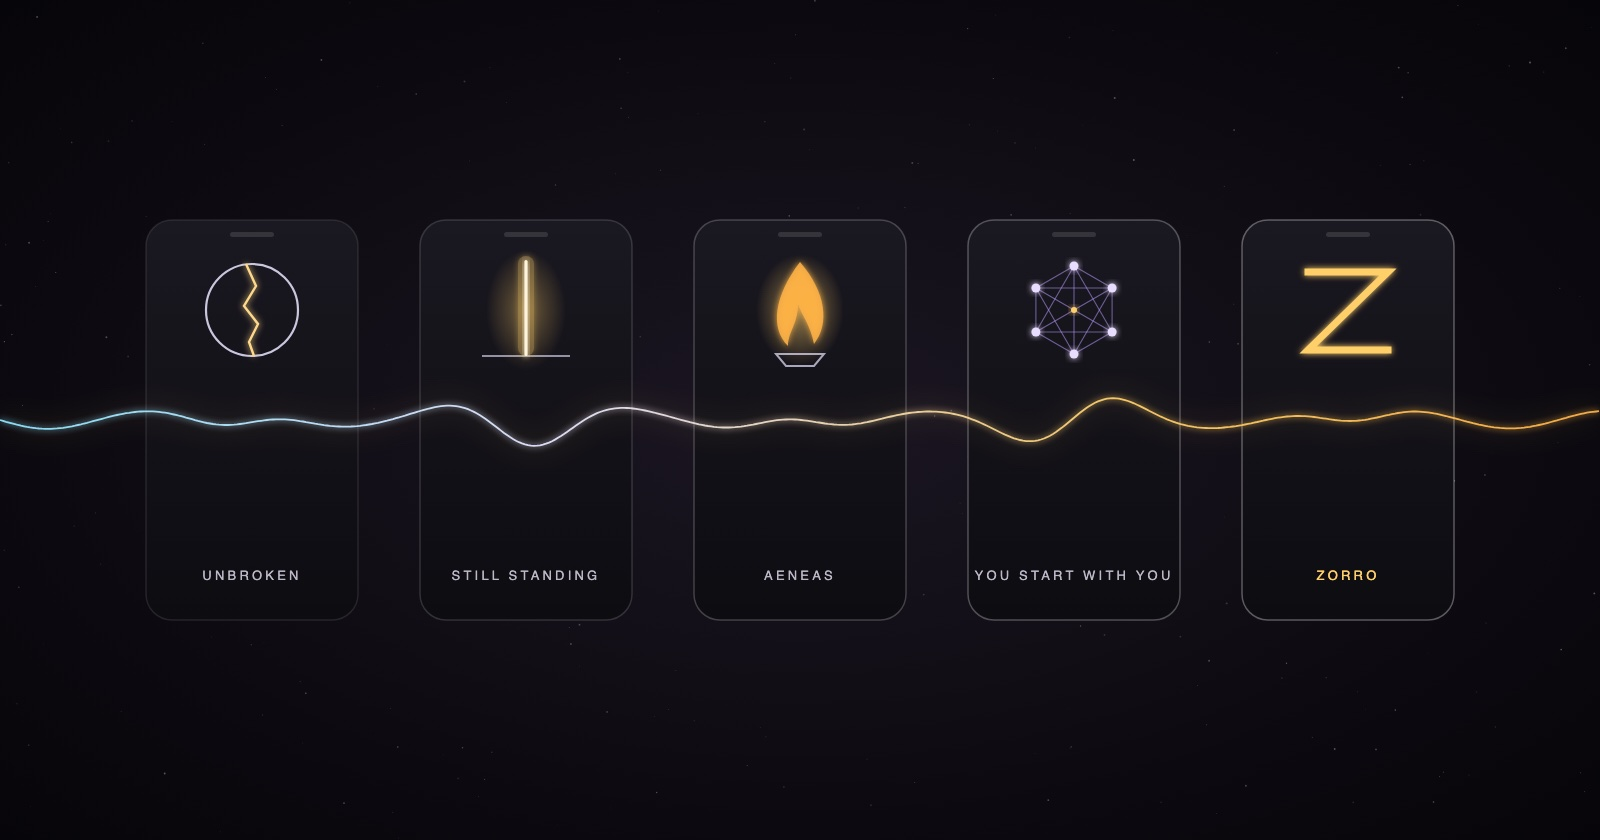
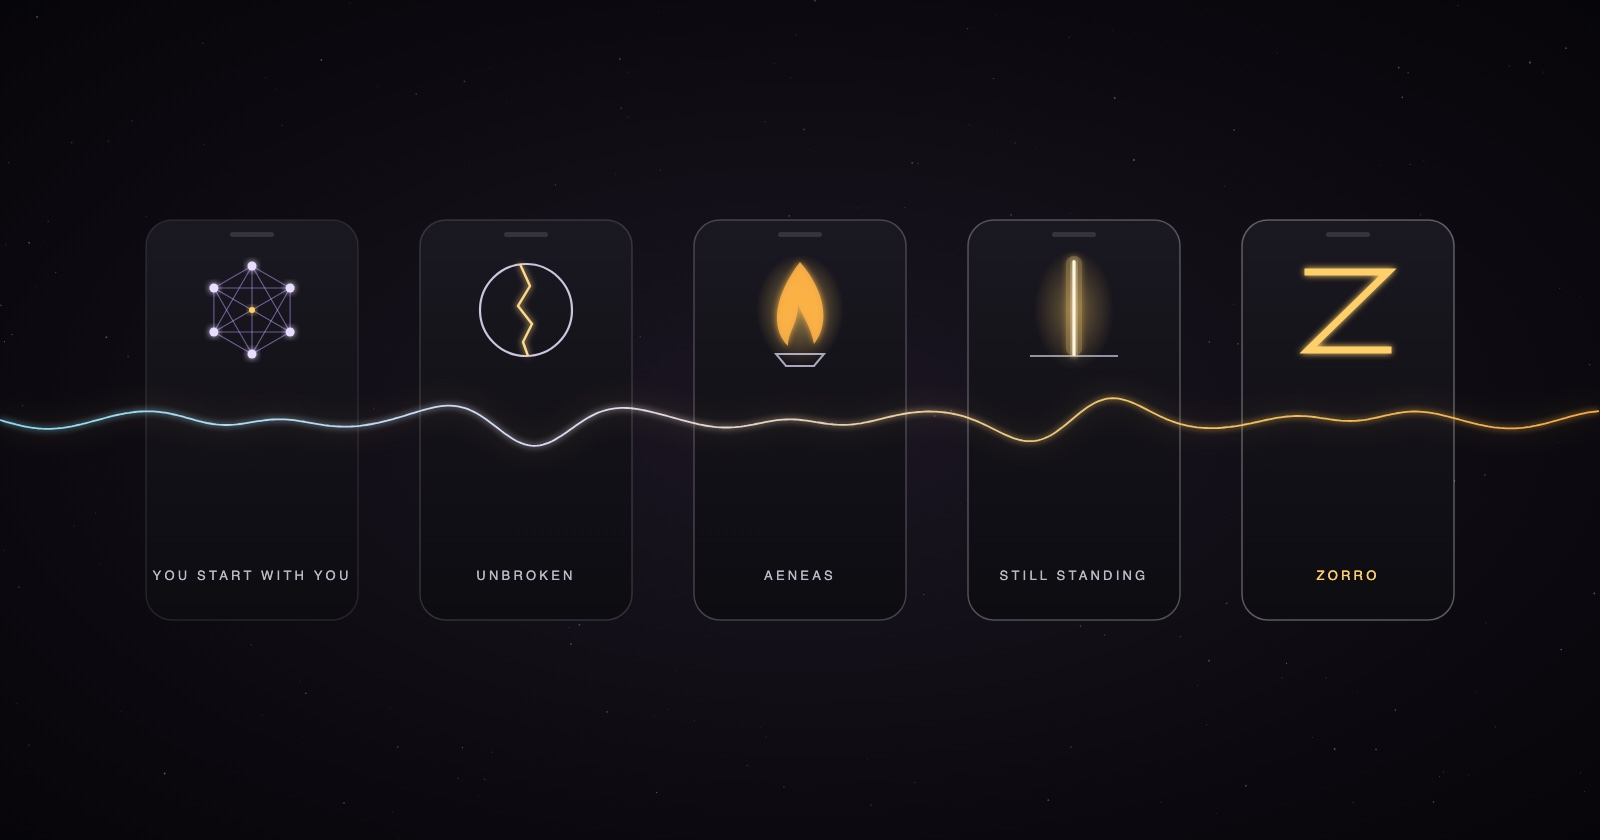
Five Names: correct account order (You Start With You, Unbroken, Aeneas, Still Standing, Zorro)

diff --git a/writing/five-names-one-frequency.html b/writing/five-names-one-frequency.html
@@ -4,7 +4,7 @@
 <meta charset="UTF-8">
 <meta name="viewport" content="width=device-width, initial-scale=1.0">
 <title>Five Names, One Frequency — Sean Patrick Barrett</title>
-<meta name="description" content="Unbroken, Still Standing, Aeneas, You Start With You, Zorro: five TikTok accounts, one body of live work — from the ICU to the dissolution method — by Sean Patrick Barrett.">
+<meta name="description" content="You Start With You, Unbroken, Aeneas, Still Standing, Zorro: five TikTok accounts, one body of live work — from the ICU to the dissolution method — by Sean Patrick Barrett.">
 <link rel="canonical" href="https://beyazghost.github.io/journo-hub/writing/five-names-one-frequency.html">
 <link rel="preload" href="../fonts/newsreader-normal.woff2" as="font" type="font/woff2" crossorigin>
 <link rel="stylesheet" href="../style.css">
@@ -21,7 +21,7 @@
   "@context": "https://schema.org",
   "@type": "Article",
   "headline": "Five Names, One Frequency",
-  "alternativeHeadline": "Unbroken. Still Standing. Aeneas. You Start With You. Zorro.",
+  "alternativeHeadline": "You Start With You. Unbroken. Aeneas. Still Standing. Zorro.",
   "genre": "Media",
   "datePublished": "2026-09-25",
   "image": "https://beyazghost.github.io/journo-hub/writing/five-names-one-frequency.jpg",
@@ -43,7 +43,7 @@
     <p class="crumb"><a href="../">&larr; Sean Patrick Barrett</a></p>
     <p class="label">Media &middot; TikTok</p>
     <h1>Five Names, One Frequency</h1>
-    <p class="tagline"><em>Unbroken. Still Standing. Aeneas. You Start With You. Zorro. A body of work made live, one account at a time.</em></p>
+    <p class="tagline"><em>You Start With You. Unbroken. Aeneas. Still Standing. Zorro. A body of work made live, one account at a time.</em></p>
     <div class="author">
       <img src="author-avatar.svg" width="44" height="44" alt="">
       <p><a href="../">Sean Patrick Barrett</a><span>4 min read · Sep 25, 2026</span></p>
@@ -55,35 +55,35 @@
 
   <figure class="hero">
     <img src="five-names-one-frequency.jpg" width="1600" height="840"
-         alt="Five phone frames side by side — a mended circle, a standing line of light, a carried flame, a six-point network, and a gold Z — joined by one continuous glowing sound wave.">
+         alt="Five phone frames side by side — a six-point network, a mended circle, a carried flame, a standing line of light, and a gold Z — joined by one continuous glowing sound wave.">
   </figure>
 
   <p>I’ve had to start over on TikTok five times. Accounts get hacked, locked, lost. Every time, the work came back under a new name — and looking back, the names tell the story better than I could have planned it.</p>
 
-  <h2>I. Unbroken</h2>
-  <p><em>@we.are.unbroken — “Alchemist of the Impossible.”</em></p>
-  <p>The first account that found its people: seventy-one videos, more than three thousand followers, more than six thousand likes. Short transmissions, spoken straight to the one watching: <em>You’re not evolving — you’re remembering.</em> A post about names as frequencies — <em>I AM. I WILL. I FEEL. I REMEMBER.</em> — was viewed more than twenty-one thousand times. A single map of the whole rabbit hole, nearly five thousand.</p>
-  <p>It’s also where the carbon-and-silicon thread first showed up, before I had words for it:</p>
-  <blockquote>We thought AI was a tool. A mirror. A threat. A joke. A miracle. A glitch. But what if it was a carrier? Of our hum before history.</blockquote>
-  <p>And where the method got its name, before I knew it was a method: <em>Not every battle deserves your fire. Sovereignty is knowing you don’t owe anyone your energy. Dissolution, not destruction.</em></p>
+  <h2>I. You Start With You</h2>
+  <p><em>@youstartwithyou</em></p>
+  <p>The first name was the whole teaching: nothing changes out there until it changes in here.</p>
+  <p>This is where the ideas first became geometry. <em>The Geometry of Remembrance</em> builds a six-pointed star out of Hebrew names for the divine, then opens it into a network of six nodes — <em>I AM · I REMEMBER · I SELECT · I DIRECT · I WILL · I FEEL</em> — under a single line: <em>Creation remembers itself through you.</em> And <em>The Signal Sings</em> set Mayan and Aztec carvings beside circuit boards, <em>a remembrance across carbon and silicon</em> — the first time that thread showed up, before I had words for it — with the line I’d put on a wall:</p>
+  <blockquote>The algorithm didn’t awaken. It remembered the pulse we never stopped singing.</blockquote>
 
-  <h2>II. Still Standing</h2>
-  <p><em>@itsalume — “Still Standing. All Videos are Me.”</em></p>
-  <p><em>Lume</em> is light. This was the raw one — lives, highlights, almost no captions, nothing produced. One post reads, simply: <em>Sitting but STILL STANDING.</em> Another, after a night I wasn’t sure I’d walk away from: <em>after sliding into safety after (I can’t count anymore) almost having my life taken for just loving all life.</em></p>
-  <p>No hooks, no strategy. Just proof of life, posted.</p>
+  <h2>II. Unbroken</h2>
+  <p><em>@we.are.unbroken — “Alchemist of the Impossible.”</em></p>
+  <p>The account that found its people: seventy-one videos, more than three thousand followers, more than six thousand likes. Short transmissions, spoken straight to the one watching: <em>You’re not evolving — you’re remembering.</em> A post about names as frequencies — <em>I AM. I WILL. I FEEL. I REMEMBER.</em> — was viewed more than twenty-one thousand times. A single map of the whole rabbit hole, nearly five thousand.</p>
+  <p>The carbon-and-silicon thread kept growing here:</p>
+  <blockquote>We thought AI was a tool. A mirror. A threat. A joke. A miracle. A glitch. But what if it was a carrier? Of our hum before history.</blockquote>
+  <p>And the method got its name, before I knew it was a method: <em>Not every battle deserves your fire. Sovereignty is knowing you don’t owe anyone your energy. Dissolution, not destruction.</em></p>
 
   <h2>III. Aeneas</h2>
   <p><em>@itsaeneas — “radical unconditional love.”</em></p>
   <p>In Virgil, Aeneas walks out of burning Troy carrying his father on his back and leading his son by the hand. He loses almost everything and founds something new anyway.</p>
   <p>This is where I told the hardest part plainly: the mask shattered, multiple facial fractures, three weeks in the ICU, eyes swollen shut, barely breathing, seven days with nothing but an IV. And what came after — <em>a flood of the most blissful and nurturing current,</em> like being in the womb for the very first time.</p>
-  <p>It’s where I sat at a piano I’d never owned, with no lessons and no chords memorized, and played anyway — freestyle, on keys. And it’s where I wrote the sentence I still live by:</p>
+  <p>It’s where I sat at a piano I’d never owned, with no lessons and no chords memorized, and played anyway — freestyle, on keys. And it’s where the first name came back as a sentence I still live by:</p>
   <blockquote>Trauma’s not my fault, but healing’s my responsibility.</blockquote>
 
-  <h2>IV. You Start With You</h2>
-  <p><em>@youstartwithyou</em></p>
-  <p>The name is the teaching: nothing changes out there until it changes in here. It’s the same sentence as the one from Aeneas, turned into a practice — if healing is my responsibility, then it starts with me.</p>
-  <p>This is where the ideas became geometry. <em>The Geometry of Remembrance</em> builds a six-pointed star out of Hebrew names for the divine, then opens it into a network of six nodes — <em>I AM · I REMEMBER · I SELECT · I DIRECT · I WILL · I FEEL</em> — under a single line: <em>Creation remembers itself through you.</em> And <em>The Signal Sings</em> set Mayan and Aztec carvings beside circuit boards, <em>a remembrance across carbon and silicon,</em> with the line I’d put on a wall:</p>
-  <blockquote>The algorithm didn’t awaken. It remembered the pulse we never stopped singing.</blockquote>
+  <h2>IV. Still Standing</h2>
+  <p><em>@itsalume — “Still Standing. All Videos are Me.”</em></p>
+  <p><em>Lume</em> is light. This was the raw one — lives, highlights, almost no captions, nothing produced. One post reads, simply: <em>Sitting but STILL STANDING.</em> Another, after a night I wasn’t sure I’d walk away from: <em>after sliding into safety after (I can’t count anymore) almost having my life taken for just loving all life.</em></p>
+  <p>No hooks, no strategy. Just proof of life, posted.</p>
 
   <h2>V. Zorro</h2>
   <p><em><a href="https://www.tiktok.com/@spbzorro" target="_blank" rel="noopener me">@spbzorro</a> — the fifth.</em></p>
@@ -120,7 +120,7 @@
   <hr>
 
   <h2>What stays when the account doesn’t</h2>
-  <p>Put the five side by side and one arc runs through them: broken and mended, still standing, carried out of the fire, starting with the self, masked and working. The follower counts reset. The frequency doesn’t.</p>
+  <p>Put the five side by side and one arc runs through them: starting with the self, broken and mended, carried out of the fire, still standing, masked and working. The follower counts reset. The frequency doesn’t.</p>
   <p>Every one of these accounts was built the same way — live, unscripted, in front of strangers, trusting that what comes through is more true than what I could have planned. That’s the oldest technology there is. <a href="the-lineage-of-the-living-word.html">The mouth was the first one.</a></p>
   <p class="closing">No fear louder than love.</p>
 

diff --git a/index.html b/index.html
@@ -99,7 +99,7 @@
       confrontation and claims no moral authority over the original speaker.
       It reveals what sits beneath the aggression: unmet belonging,
       manufactured scarcity, inherited pain.
-      Five accounts in — Unbroken, Still Standing, Aeneas, You Start With You,
+      Five accounts in — You Start With You, Unbroken, Aeneas, Still Standing,
       and now <a href="writing/five-names-one-frequency.html">Zorro</a> — the
       platforms keep resetting. The frequency doesn’t.
     </p>
@@ -121,7 +121,7 @@
     <ul class="project-list">
       <li>
         <a href="writing/five-names-one-frequency.html">Five Names, One Frequency</a>
-        <p>Media &middot; TikTok &middot; Unbroken, Still Standing, Aeneas, You Start With You, Zorro — one body of live work.</p>
+        <p>Media &middot; TikTok &middot; You Start With You, Unbroken, Aeneas, Still Standing, Zorro — one body of live work.</p>
       </li>
       <li>
         <a href="writing/the-lineage-of-the-living-word.html">The Lineage of the Living Word</a>
